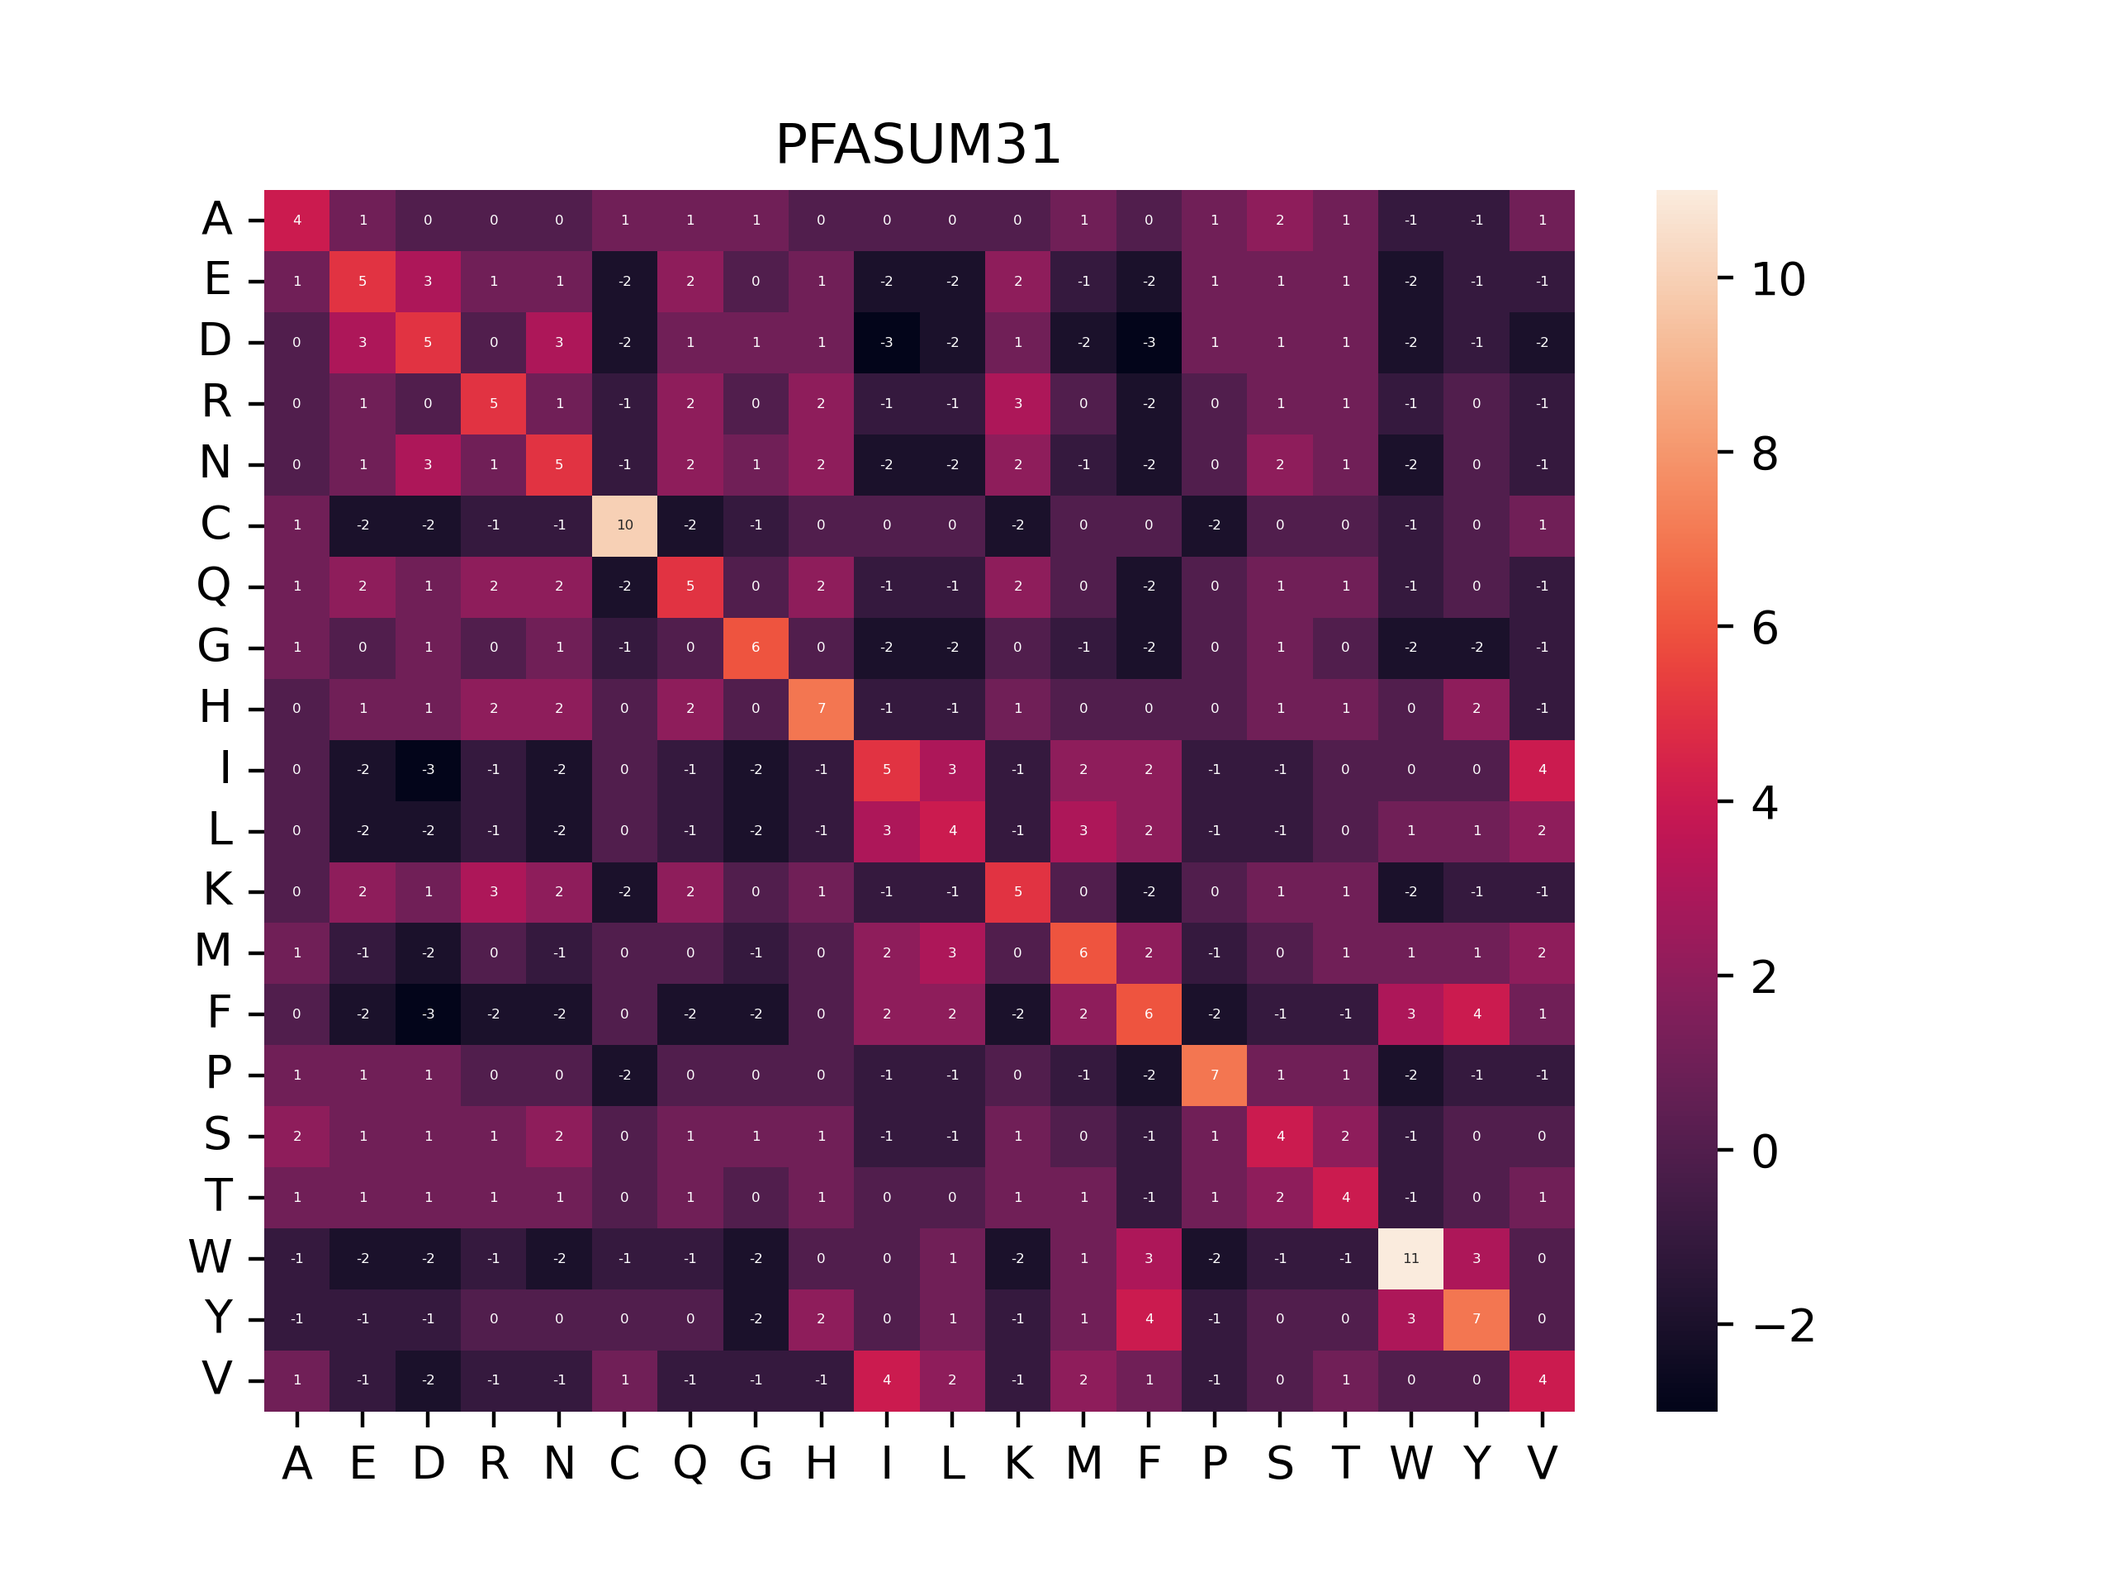
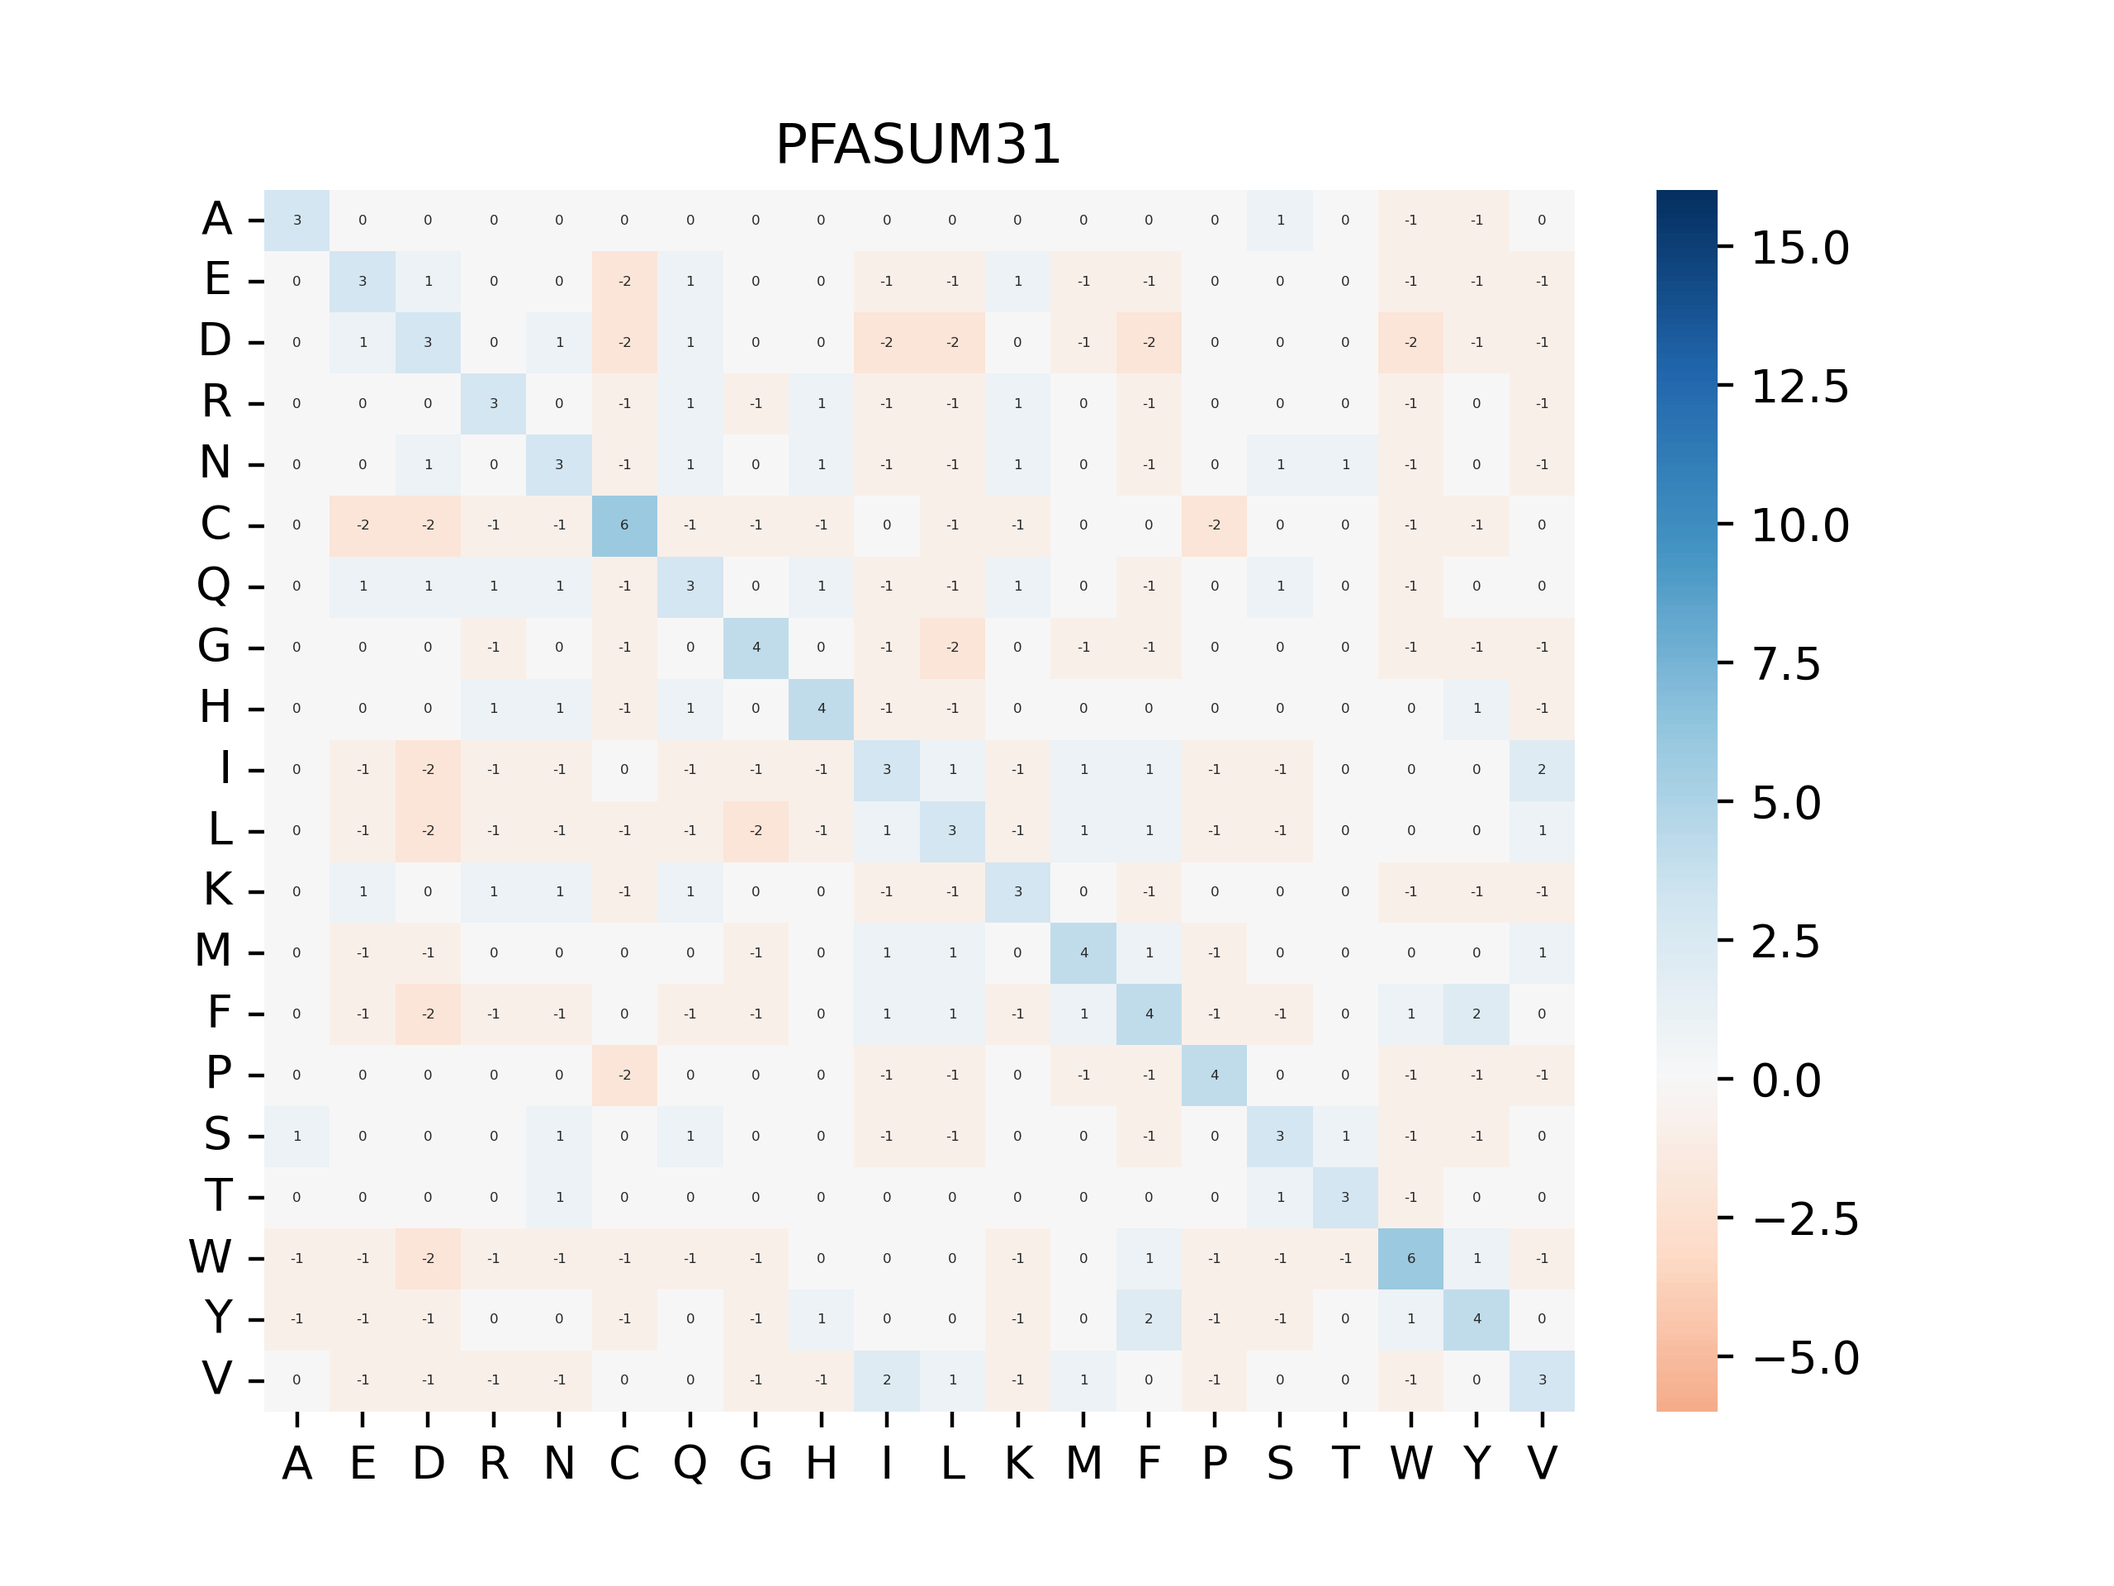
commit

diff --git a/Script_py/Main_Pfasum.py b/Script_py/Main_Pfasum.py
@@ -72,7 +72,6 @@ pfasum43 = [[   4,  -1,  -1,  -1,  -1,   0,   0,  0, -2, -1, -1, -1,  0, -2, -1,
                 [   0,  -3,  -4,  -3,  -3,   0,  -2, -3, -3,  3,  2, -3,  1,  0, -2, -2,  0, -2, -1,  4]]
 
 
-
 ### VARIABLE GLOBAL POUR CALCULER ET STOCKER LA MATRICE..............................................................................................
 #....................................................................................................................................................
 
@@ -80,7 +79,7 @@ main_path = "/home/ctoussaint"
 dossier = "/Stage_MNHN/"
 
 # Tu pourras trouver les fichiers par seuil d'identité ici
-titre = "test_PFASUM31"
+titre = "PFASUM31_new"
 path_folder = main_path + dossier + "result"
 
 directory = main_path + dossier + "test/test_result_cluster31"
@@ -100,6 +99,14 @@ directory60 = main_path + "/Cluster60"
 directory60 = Path(directory60)
 directory60 = directory60.iterdir()
 
+path_freqPair = path_folder + "/Resultat_PairAA/freqPair"
+path_freqSP = path_folder + "/Resultat_PairAA/freqSimple"
+path_MS = path_folder + "/Resultat_PairAA/Mat_substitution"
+name_file_pair = "/new_PFASUM_freqPair"
+name_file_FS = "/new_PFASUM_freqSimple"
+name_file_MS = "/PFASUM_NEW_"
+file_pair = path_freqPair + name_file_pair + str(31) + ".npy"
+
 ### CALCUL MATRICE...................................................................................................................................
 #....................................................................................................................................................
 
@@ -107,40 +114,31 @@ directory60 = directory60.iterdir()
 t = Timer()
 t.start()
 
-mat_pair = MS.MultiFreqPair(directory)
-freqsimple = MS.FreqSimple(mat_pair)
-Peij = MS.peij(freqsimple)
+Peij = np.load("/home/ctoussaint/Stage_MNHN/result/new_PFASUM_eij31.npy", allow_pickle= 'TRUE')
+
+mat_pair = np.load(file_pair, allow_pickle= 'TRUE')
+
 # je met un scaling factor de 2 car c'est ce qu'ils font dans l'article
 # "Amino acid substitution matrice from protein blocks"
 # "Lod ratios are multiplied by a scaling factor of 2 ..."
-matrix = MS.computeMatrixPFASUM(Peij, mat_pair, 2)
+matrix = MS.computeMatrixPFASUM(Peij, mat_pair, 1)
 #print(MS.Visualisation(matrix))
 MS.heatmap(titre, matrix, path_folder)
 t.stop("Fin construction Matrice PFASUM")
 
 
 
-
-path_freqPair = path_folder + "/Resultat_PairAA/freqPair"
-path_freqSP = path_folder + "/Resultat_PairAA/freqSimple"
-path_MS = path_folder + "/Resultat_PairAA/Mat_substitution"
-name_file_pair = "/TEST_PFASUM_freqPair"
-name_file_FS = "/TEST_PFASUM_freqSimple"
-name_file_MS = "/TEST_PFASUM_"
-
-
 file_couple60 = "/home/ctoussaint/Stage_MNHN/result/Resultat_PCoupleAA/Mat_substitutionPCouple/PFASUM_scorePCouple60.npy"
 file_couple31=  "/home/ctoussaint/Stage_MNHN/result/Resultat_PCoupleAA/Mat_substitutionPCouple/PFASUM_scorePCouple31.npy"
 file_couple43=  "/home/ctoussaint/Stage_MNHN/result/Resultat_PCoupleAA/Mat_substitutionPCouple/PFASUM_scorePCouple43.npy"
 
-file_pfasum60 = path_MS + name_file_MS + str(80) + ".npy"
-file_pfasum43 = path_MS + name_file_MS + str(50) + ".npy"
-file_pfasum31 = path_MS + name_file_MS + str(11) + ".npy"
+file_pfasum60 = path_MS + name_file_MS + str(60) + ".npy"
+file_pfasum43 = path_MS + name_file_MS + str(43) + ".npy"
+file_pfasum31 = path_MS + name_file_MS + str(31) + ".npy"
 
 Ma_pfasum60 = np.load(file_pfasum60, allow_pickle= 'TRUE')
 Ma_pfasum43 = np.load(file_pfasum43, allow_pickle= 'TRUE')
 Ma_pfasum31 = np.load(file_pfasum31, allow_pickle= 'TRUE')
-
 
 pfasumCouple60 = np.load(file_couple60, allow_pickle= 'TRUE')
 print(pfasumCouple60)
@@ -154,50 +152,28 @@ print(pfasumCouple31)
 ### CALCUL ENTROPIE + difference entre Matrice.......................................................................................................
 #....................................................................................................................................................
 
-
-Entropie_relative60, exp_score60 = MS.entropy(80, path_freqPair, path_freqSP, path_MS, name_file_pair,
-                                      name_file_FS, name_file_MS)
-
-print("Entropie Relative à 80% : ", Entropie_relative60)
-print("expected score à 80% :" , exp_score60)
-
-print("\n")
-
-Entropie_relative43, exp_score43 = MS.entropy(50, path_freqPair, path_freqSP, path_MS, name_file_pair,
-                                      name_file_FS, name_file_MS)
-
-print("Entropie Relative à 50% : ", Entropie_relative43)
-print("expected score à 50% :" , exp_score43)
-
-print("\n")
-
-Entropie_relative31, exp_score31 = MS.entropy(11, path_freqPair, path_freqSP, path_MS, name_file_pair,
-                                      name_file_FS, name_file_MS)
-
-print("Entropie Relative à 11% : ", Entropie_relative31)
-print("expected score à 11% :" , exp_score31)
-
-
 matrix_diff60, dist60 =MS.matrix_difference(Ma_pfasum60, pfasum60 )
 matrix_diff31, dist31 =MS.matrix_difference(Ma_pfasum31, pfasum31 )
 matrix_diff43, dist43 =MS.matrix_difference(Ma_pfasum43, pfasum43 )
 
 
-print("distance entre test_pfasum60 :", dist60)
-print("distance entre test_pfasum31 :", dist31)
-print("distance entre test_pfasum43 :", dist43)
+print("distance entre pfasum60 :", dist60)
+print("distance entre pfasum31 :", dist31)
+print("distance entre pfasum43 :", dist43)
 
 path_folder_heatmap= path_folder +"/heatmap"
 
-MS.heatmap("TEST-Dist MA PFASUM - PFASUM60", matrix_diff60, path_folder)
-MS.heatmap("TEST-Dist MA PFASUM - PFASUM31", matrix_diff31, path_folder)
-MS.heatmap("TEST-Dist MA PFASUM - PFASUM43", matrix_diff43, path_folder)
+#Heatmap des matrices de distance ............................................................................................
+#.............................................................................................................................
+MS.heatmap("Matrice de distance entre ma PFASUM60 et celle de l'article", matrix_diff60, path_folder)
+MS.heatmap("Matrice de distance entre ma PFASUM31 et celle de l'article", matrix_diff31, path_folder)
+MS.heatmap("Matrice de distance entre ma PFASUM43 et celle de l'article", matrix_diff43, path_folder)
 
-MS.heatmap("TEST_PFASUM_60", Ma_pfasum60, path_folder_heatmap)
-MS.heatmap("TEST_PFASUM_43", Ma_pfasum43, path_folder_heatmap)
-MS.heatmap("TEST_PFASUM_31", Ma_pfasum31, path_folder_heatmap)
-
-
+#Heatmap des matrices construites ............................................................................................
+#.............................................................................................................................
+MS.heatmap("PFASUM60", Ma_pfasum60, path_folder_heatmap)
+MS.heatmap("PFASUM43", Ma_pfasum43, path_folder_heatmap)
+MS.heatmap("PFASUM31", Ma_pfasum31, path_folder_heatmap)
 
 
 

diff --git a/Script_py/MatPFASUM.py b/Script_py/MatPFASUM.py
@@ -105,7 +105,7 @@ def FreqSimple(matPair):
         dFreqSimple.append((1/2)*(np.sum(matPair[a_index, :])+(matPair[a_index, a_index])))
 
     path_folder_Result = "/home/ctoussaint/Stage_MNHN/result"
-    path_freqSimple = f"{path_folder_Result}/new_PFASUM_freqSimple31"
+    path_freqSimple = f"{path_folder_Result}/PFASUM_freqSimple31"
     np.save(path_freqSimple, dFreqSimple) 
 
     print("somme freq simple", np.sum(dFreqSimple))
@@ -138,7 +138,7 @@ def MultiFreqPair(directory) :
             dFreqPair[l][col] = dFreqPair[l][col] /tot
 
     path_folder_Result = "/home/ctoussaint/Stage_MNHN/result"
-    path_freqPair = f"{path_folder_Result}/new_PFASUM_freqPair31"
+    path_freqPair = f"{path_folder_Result}/PFASUM_freqPair31"
     np.save(path_freqPair, dFreqPair) 
     print("somme pair =", np.sum(dFreqPair))
 
@@ -164,7 +164,7 @@ def peij(dFreqSimple) :
         peij[a,a] = dFreqSimple[a]*dFreqSimple[a]
 
     path_folder_Result = "/home/ctoussaint/Stage_MNHN/result"
-    path_eij = f"{path_folder_Result}/new_PFASUM_eij31"
+    path_eij = f"{path_folder_Result}/PFASUM_eij31"
     np.save(path_eij, peij) 
     print(np.sum(peij))
 
@@ -172,6 +172,48 @@ def peij(dFreqSimple) :
     return peij
 
 
+### FONCTION CALCULE DES FRÉQUENCES ATTENDUES DES PAIRS D'AA.........................................................................................
+#....................................................................................................................................................
+def peij_bis(dFreqSimple) :
+    """
+        input : un tableau de fréquence 1x20
+        output : une matrice 20x20 de la probabilité d'occurence attendue eij
+    
+    """
+
+    
+    peij = np.outer(dFreqSimple, np.transpose(dFreqSimple))
+
+    path_folder_Result = "/home/ctoussaint/Stage_MNHN/result"
+    path_eij = f"{path_folder_Result}/PFASUM_eij60"
+    np.save(path_eij, peij) 
+    print(np.sum(peij))
+
+    
+    return peij
+
+
+def FreqSimple_bis(matPair):
+    """
+        input : une matrice de fréquence 20x20 de nos couples d'aa
+        output : une matrice 1x20 de nos aa de la forme :
+                [ <freq('A')> , <freq('E')>, <freq('D')>, <freq('R')>, ... ]
+    """
+
+    dFreqSimple= []
+    
+    for a_index in range(20):
+        dFreqSimple.append((np.sum(matPair[a_index, :])))
+
+    path_folder_Result = "/home/ctoussaint/Stage_MNHN/result"
+    path_freqSimple = f"{path_folder_Result}/PFASUM_freqSimple60"
+    np.save(path_freqSimple, dFreqSimple) 
+
+    print("somme freq simple", np.sum(dFreqSimple))
+
+    return dFreqSimple
+
+    
 
 ### FONCTION CALCUL D'UNE MATRICE DE SUBSTITUTION....................................................................................................
 #....................................................................................................................................................
@@ -195,21 +237,12 @@ def computeMatrixPFASUM(peij, freqPairs, scaling_factor):
     
 
     path_folder_Result = "/home/ctoussaint/Stage_MNHN/result"
-    path_matrix = f"{path_folder_Result}/new_PFASUM_31"
+    path_matrix = f"{path_folder_Result}/PFASUM_NEW_"
     np.save(path_matrix, mat) 
     #print(mat)
 
 
     return mat
-
-
-### FONCTION VISUALISATION D'UNE MATRICE EN DATAFRAME................................................................................................
-#....................................................................................................................................................
-def Visualisation(matrice):
-
-    df_mat = pd.DataFrame(matrice)
-
-    return df_mat
 
 
 ### FONCTION HEATMAP.................................................................................................................................
@@ -225,7 +258,7 @@ def heatmap(titre, matrix, path_folder):
 
     heatmap_matrix = pd.DataFrame(matrix).T.fillna(0) 
     heatmap = sb.heatmap(heatmap_matrix, xticklabels=x_axis_labels, yticklabels=y_axis_labels, 
-                        annot = True, annot_kws = {"size": 3}, fmt = '.2g',center = 0, cmap="RdBu")
+                        annot = True, annot_kws = {"size": 3}, fmt = '.2g',center = 0, cmap="RdBu", vmin = -10, vmax = 5)
     plt.yticks(rotation=0) 
     heatmap_figure = heatmap.get_figure()    
     plt.title(titre)
@@ -304,4 +337,3 @@ def nb_Cluster(path_folder_Cluster) :
         count_Cluster += len(nb_Cluster)
 
     return count_Cluster
-

diff --git a/Script_py/MatPFASUMCouple.py b/Script_py/MatPFASUMCouple.py
@@ -133,8 +133,8 @@ def FreqSimple(matCouple):
     for a_index in range(400):
         dFreqSimple.append((1/2)*(np.sum(matCouple[a_index, :])+(matCouple[a_index, a_index])))
 
-    path_folder_Result = "/home/ctoussaint/Stage_MNHN/test/result"
-    path_freqSimple = f"{path_folder_Result}/PFASUM_freqSimplePCouple60"
+    path_folder_Result = "/home/ctoussaint/Stage_MNHN/result"
+    path_freqSimple = f"{path_folder_Result}/new_PFASUM_freqSimplePCouple31"
     np.save(path_freqSimple, dFreqSimple) 
 
 
@@ -166,15 +166,15 @@ def MultiFreqCouple(directory) :
             dFreqPairCouple[l][col] = dFreqPairCouple[l][col] /tot
 
 
-    path_folder_Result = "/home/ctoussaint/Stage_MNHN/test/result"
-    path_freqCouple = f"{path_folder_Result}/PFASUM_freqPCouple60"
+    path_folder_Result = "/home/ctoussaint/Stage_MNHN/result"
+    path_freqCouple = f"{path_folder_Result}/new_PFASUM_freqPCouple31"
     np.save(path_freqCouple, dFreqPairCouple) 
 
 
     return dFreqPairCouple
 
     
-
+43
 ### FONCTION CALCULE DES FRÉQUENCES DES PAIRS DE COUPLE D'AA.........................................................................................
 #....................................................................................................................................................
 def peij(dFreqSimple) :
@@ -189,8 +189,8 @@ def peij(dFreqSimple) :
     for a in range(len(peij)) :
         peij[a,a] = dFreqSimple[a]*dFreqSimple[a]
 
-    path_folder_Result = "/home/ctoussaint/Stage_MNHN/test/result"
-    path_eij = f"{path_folder_Result}/PFASUM_eijPCouple60"
+    path_folder_Result = "/home/ctoussaint/Stage_MNHN/result"
+    path_eij = f"{path_folder_Result}/new_PFASUM_eijPCouple31"
     np.save(path_eij, peij) 
  
 
@@ -218,8 +218,8 @@ def computeMatrixPFASUM(peij, freqPairs, scaling_factor):
             else:
                 mat[l][col] = 0
 
-    path_folder_Result = "/home/ctoussaint/Stage_MNHN/test/result"
-    path_matrix = f"{path_folder_Result}/PFASUM_scorePCouple60"
+    path_folder_Result = "/home/ctoussaint/Stage_MNHN/result"
+    path_matrix = f"{path_folder_Result}/new_PFASUM_scorePCouple31"
     np.save(path_matrix, mat) 
 
 
@@ -261,13 +261,13 @@ def heatmap(titre, matrix, path_folder):
 #....................................................................................................................................................
 
 main_path = "/home/ctoussaint"
-dossier = "/Stage_MNHN/test/"
+dossier = "/Stage_MNHN/"
 
-directory = main_path + "/Cluster60"
+directory = main_path + "/Cluster31"
 directory = Path(directory)
 directory = directory.iterdir()
 
-titre = "PFASUM_Pair60"
+titre = "PFASUM_Pair31"
 path_folder = main_path + dossier + "result"
 
 
@@ -283,7 +283,7 @@ Peij = peij(freqsimple)
 # je met un scaling factor de 2 car c'est ce qu'ils font dans l'article
 # "Amino acid substitution matrice from protein blocks"
 # "Lod ratios are multiplied by a scaling factor of 2 ..."
-matrix = computeMatrixPFASUM(Peij, mat_pairCouple, 2)
+matrix = computeMatrixPFASUM(Peij, mat_pairCouple, 1)
 print(matrix)
 print(Visualisation(matrix))
 heatmap(titre, matrix, path_folder)
